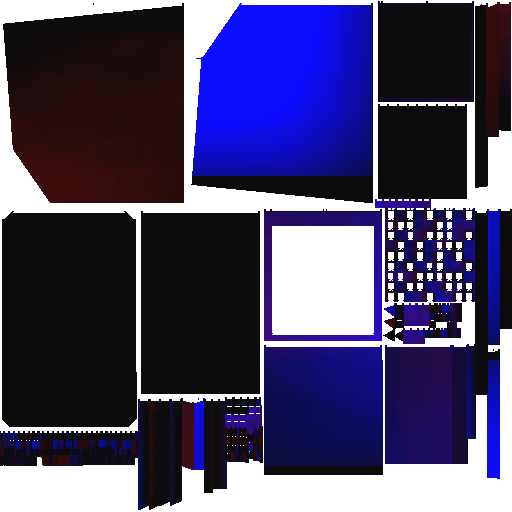
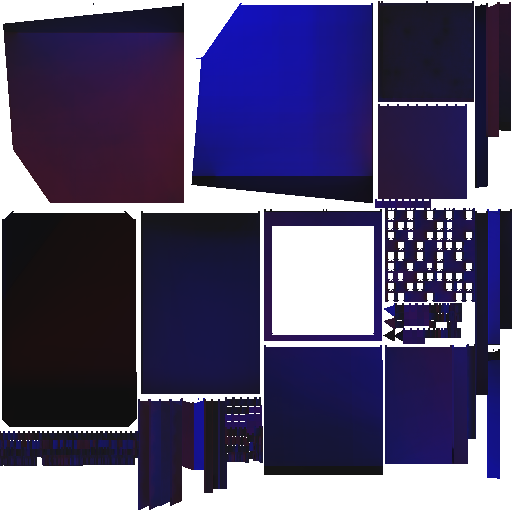
2-bounce 256/256 bake. need some basic material property like absorption

diff --git a/src/lightmap.cpp b/src/lightmap.cpp
@@ -359,7 +359,7 @@ internal float32 HemisphereGroupCloseness(const Array<Vec3>& samples, int groupI
     return closeness;
 }
 
-internal void GenerateHemisphereSampleGroups(Array<SampleGroup> sampleGroups, LinearAllocator* allocator)
+internal bool GenerateHemisphereSampleGroups(Array<SampleGroup> sampleGroups, LinearAllocator* allocator)
 {
     ALLOCATOR_SCOPE_RESET(*allocator);
 
@@ -373,6 +373,9 @@ internal void GenerateHemisphereSampleGroups(Array<SampleGroup> sampleGroups, Li
     const uint32 numGroups = samples.size / 8;
 
     Array<int> indices = allocator->NewArray<int>(samples.size);
+    if (indices.data == nullptr) {
+        return false;
+    }
     for (uint32 i = 0; i < samples.size; i++) {
         indices[i] = i;
     }
@@ -382,6 +385,9 @@ internal void GenerateHemisphereSampleGroups(Array<SampleGroup> sampleGroups, Li
 
     const uint32 ITERATIONS = 10000;
     Array<int> minIndices = allocator->NewArray<int>(samples.size);
+    if (minIndices.data == nullptr) {
+        return false;
+    }
     float32 minCloseness = 1e8;
     for (uint32 n = 0; n < ITERATIONS; n++) {
         indices.Shuffle();
@@ -396,11 +402,15 @@ internal void GenerateHemisphereSampleGroups(Array<SampleGroup> sampleGroups, Li
     }
 
     Array<Vec3> samplesCopy = allocator->NewArray<Vec3>(samples.size);
+    if (samplesCopy.data == nullptr) {
+        return false;
+    }
     samplesCopy.CopyFrom(samples);
     for (uint32 i = 0; i < samples.size; i++) {
         samples[i] = samplesCopy[minIndices[i]];
     }
 
+    // Debug purposes only, log closeness
     for (uint32 i = 0; i < samples.size; i++) {
         indices[i] = i;
     }
@@ -409,6 +419,8 @@ internal void GenerateHemisphereSampleGroups(Array<SampleGroup> sampleGroups, Li
         totalCloseness += HemisphereGroupCloseness(samples, &indices[i * 8]);
     }
     LOG_INFO("hemisphere closeness: %f\n", totalCloseness);
+
+    return true;
 }
 
 internal Vec3 RaycastColor(Array<SampleGroup> sampleGroups, Vec3 pos, Vec3 normal, const RaycastGeometry& geometry)
@@ -421,14 +433,14 @@ internal Vec3 RaycastColor(Array<SampleGroup> sampleGroups, Vec3 pos, Vec3 norma
             .width = { -2.0f, 0.0f, 0.0f },
             .height = { 0.0f, 0.0f, -2.2f },
             .color = Vec3 { 1.0f, 0.0f, 0.0f },
-            .intensity = 2.0f
+            .intensity = 1.0f
         },
         {
             .origin = { 2.0f, -1.544835f + 0.005f, 2.24f },
             .width = { 2.0f, 0.0f, 0.0f },
             .height = { 0.0f, 0.0f, -2.2f },
             .color = Vec3 { 0.0f, 0.0f, 1.0f },
-            .intensity = 2.0f
+            .intensity = 1.0f
         },
     };
 
@@ -567,6 +579,7 @@ internal Vec3 RaycastColor(Array<SampleGroup> sampleGroups, Vec3 pos, Vec3 norma
             else if ((uint32)meshInds[i] != geometry.meshes.size) {
                 const RaycastMesh& mesh = geometry.meshes[meshInds[i]];
                 const Lightmap& lightmap = mesh.lightmap;
+                const int squareSize = lightmap.squareSize;
                 const RaycastTriangle& triangle = mesh.triangles[triangleInds[i]];
                 const Vec3 sampleNormal = xToNormalRot * sampleGroups[m].group[i];
                 const Vec3 originOffset = pos + sampleNormal * offset;
@@ -575,17 +588,20 @@ internal Vec3 RaycastColor(Array<SampleGroup> sampleGroups, Vec3 pos, Vec3 norma
                 const bool result = BarycentricCoordinates(originOffset, sampleNormal,
                                                            triangle.pos[0], triangle.pos[1], triangle.pos[2], &b);
                 const Vec2 uv = triangle.uvs[0] * b.x + triangle.uvs[1] * b.y + triangle.uvs[2] * b.z;
-                const Vec2Int pixel = { (int)(uv.x * lightmap.squareSize), (int)(uv.y * lightmap.squareSize) };
-                const uint32 pixelValue = lightmap.pixels[pixel.y * lightmap.squareSize + pixel.x];
-                uint32 pixelR = pixelValue & 0xff;
-                uint32 pixelG = (pixelValue >> 8) & 0xff;
-                uint32 pixelB = (pixelValue >> 16) & 0xff;
-                const Vec3 pixelColor = {
-                    (float32)pixelR / 255.0f,
-                    (float32)pixelG / 255.0f,
-                    (float32)pixelB / 255.0f
-                };
-                outputColor += sampleContribution * pixelColor;
+                const Vec2Int pixel = { (int)(uv.x * squareSize), (int)(uv.y * squareSize) };
+                if (0 <= pixel.x && pixel.x < squareSize && 0 <= pixel.y && pixel.y < squareSize) {
+                    const uint32 pixelValue = lightmap.pixels[pixel.y * squareSize + pixel.x];
+                    uint32 pixelR = pixelValue & 0xff;
+                    uint32 pixelG = (pixelValue >> 8) & 0xff;
+                    uint32 pixelB = (pixelValue >> 16) & 0xff;
+                    const Vec3 pixelColor = {
+                        (float32)pixelR / 255.0f,
+                        (float32)pixelG / 255.0f,
+                        (float32)pixelB / 255.0f
+                    };
+                    // TODO adjust color based on material properties, e.g. material should absorb some light
+                    outputColor += sampleContribution * pixelColor;
+                }
             }
         }
     }
@@ -651,17 +667,23 @@ void ThreadLightmapRasterizeRow(AppWorkQueue* queue, void* data)
                          workData->common->hemisphereSampleGroups, workData->common->lightmap);
 }
 
-internal void CalculateLightmapForMesh(const RaycastGeometry& geometry, uint32 meshInd, AppWorkQueue* queue,
+internal bool CalculateLightmapForMesh(const RaycastGeometry& geometry, uint32 meshInd, AppWorkQueue* queue,
                                        LinearAllocator* allocator, Lightmap* lightmap)
 {
     const int LIGHTMAP_PIXEL_MARGIN = 1;
 
-    StaticArray<SampleGroup, NUM_HEMISPHERE_SAMPLE_GROUPS> hemisphereSampleGroups;
-    Array<SampleGroup> hemisphereSampleGroupsArray = hemisphereSampleGroups.ToArray();
-    GenerateHemisphereSampleGroups(hemisphereSampleGroupsArray, allocator);
+    Array<SampleGroup> hemisphereSampleGroups = allocator->NewArray<SampleGroup>(NUM_HEMISPHERE_SAMPLE_GROUPS);
+    if (hemisphereSampleGroups.data == nullptr) {
+        LOG_ERROR("Failed to allocate hemisphere sample groups\n");
+        return false;
+    }
+    if (!GenerateHemisphereSampleGroups(hemisphereSampleGroups, allocator)) {
+        LOG_ERROR("Failed to generate hemisphere sample groups\n");
+        return false;
+    }
 
     const WorkLightmapRasterizeRowCommon workCommon = {
-        .hemisphereSampleGroups = hemisphereSampleGroupsArray,
+        .hemisphereSampleGroups = hemisphereSampleGroups,
         .geometry = &geometry,
         .meshInd = meshInd,
         .lightmap = lightmap
@@ -730,7 +752,10 @@ internal void CalculateLightmapForMesh(const RaycastGeometry& geometry, uint32 m
                 CompleteAllWork(queue);
                 allocator->LoadState(allocatorState);
                 work = allocator->New<WorkLightmapRasterizeRow>();
-                DEBUG_ASSERT(work != nullptr);
+                if (work == nullptr) {
+                    LOG_ERROR("Failed to allocate work entry after allocator flush\n");
+                    return false;
+                }
             }
             work->common = &workCommon;
             work->triangleInd = i;
@@ -745,6 +770,8 @@ internal void CalculateLightmapForMesh(const RaycastGeometry& geometry, uint32 m
     }
 
     CompleteAllWork(queue);
+
+    return true;
 }
 
 bool GenerateLightmaps(const LoadObjResult& obj, uint32 bounces, AppWorkQueue* queue, LinearAllocator* allocator,
@@ -752,11 +779,19 @@ bool GenerateLightmaps(const LoadObjResult& obj, uint32 bounces, AppWorkQueue* q
 {
     RaycastGeometry geometry;
     geometry.meshes = allocator->NewArray<RaycastMesh>(obj.models.size);
+    if (geometry.meshes.data == nullptr) {
+        LOG_ERROR("Failed to allocate geometry meshes\n");
+        return false;
+    }
 
     uint32 totalTriangles = 0;
     for (uint32 i = 0; i < obj.models.size; i++) {
         RaycastMesh& mesh = geometry.meshes[i];
         mesh.triangles = allocator->NewArray<RaycastTriangle>(obj.models[i].triangles.size);
+        if (mesh.triangles.data == nullptr) {
+            LOG_ERROR("Failed to allocate geometry mesh triangles for mesh %lu\n", i);
+            return false;
+        }
 
         // Copy triangle geometry data
         float32 surfaceArea = 0.0f;
@@ -816,10 +851,19 @@ bool GenerateLightmaps(const LoadObjResult& obj, uint32 bounces, AppWorkQueue* q
         ALLOCATOR_SCOPE_RESET(*allocator);
 
         Array<Lightmap> lightmaps = allocator->NewArray<Lightmap>(geometry.meshes.size);
+        if (lightmaps.data == nullptr) {
+            LOG_ERROR("Failed to allocate lightmaps array in bounce %lu\n", b);
+            return false;
+        }
+
         for (uint32 i = 0; i < geometry.meshes.size; i++) {
             const uint32 squareSize = geometry.meshes[i].lightmap.squareSize;
             lightmaps[i].squareSize = squareSize,
             lightmaps[i].pixels = allocator->New<uint32>(squareSize * squareSize);
+            if (lightmaps[i].pixels == nullptr) {
+                LOG_ERROR("Failed to allocate pixels for lightmap, bounce %lu, mesh %lu\n", b, i);
+                return false;
+            }
             MemSet(lightmaps[i].pixels, 0, squareSize * squareSize * sizeof(uint32));
         }
 

diff --git a/src/lightmap.h b/src/lightmap.h
@@ -28,11 +28,11 @@ const uint64 PLANE_RIGHT = 2;
 const uint64 PLANE_FLOOR = 3;
 #define PLANE_TO_LIGHT PLANE_FLOOR
 
-const uint32 LIGHTMAP_NUM_BOUNCES = 4;
+const uint32 LIGHTMAP_NUM_BOUNCES = 2;
 const VkFilter LIGHTMAP_TEXTURE_FILTER = VK_FILTER_LINEAR;
 
-const float32 RESOLUTION_PER_WORLD_UNIT = 64.0f;
-const uint32 NUM_HEMISPHERE_SAMPLES = 64;
+const float32 RESOLUTION_PER_WORLD_UNIT = 256.0f;
+const uint32 NUM_HEMISPHERE_SAMPLES = 256;
 const uint32 SAMPLES_PER_GROUP = 8;
 static_assert(NUM_HEMISPHERE_SAMPLES % SAMPLES_PER_GROUP == 0);
 const uint32 NUM_HEMISPHERE_SAMPLE_GROUPS = NUM_HEMISPHERE_SAMPLES / SAMPLES_PER_GROUP;

diff --git a/src/main.cpp b/src/main.cpp
@@ -20,7 +20,7 @@
 const int WINDOW_START_WIDTH  = 1600;
 const int WINDOW_START_HEIGHT = 900;
 const uint64 PERMANENT_MEMORY_SIZE = MEGABYTES(1);
-const uint64 TRANSIENT_MEMORY_SIZE = MEGABYTES(32);
+const uint64 TRANSIENT_MEMORY_SIZE = MEGABYTES(256);
 
 struct UniformBufferObject
 {
